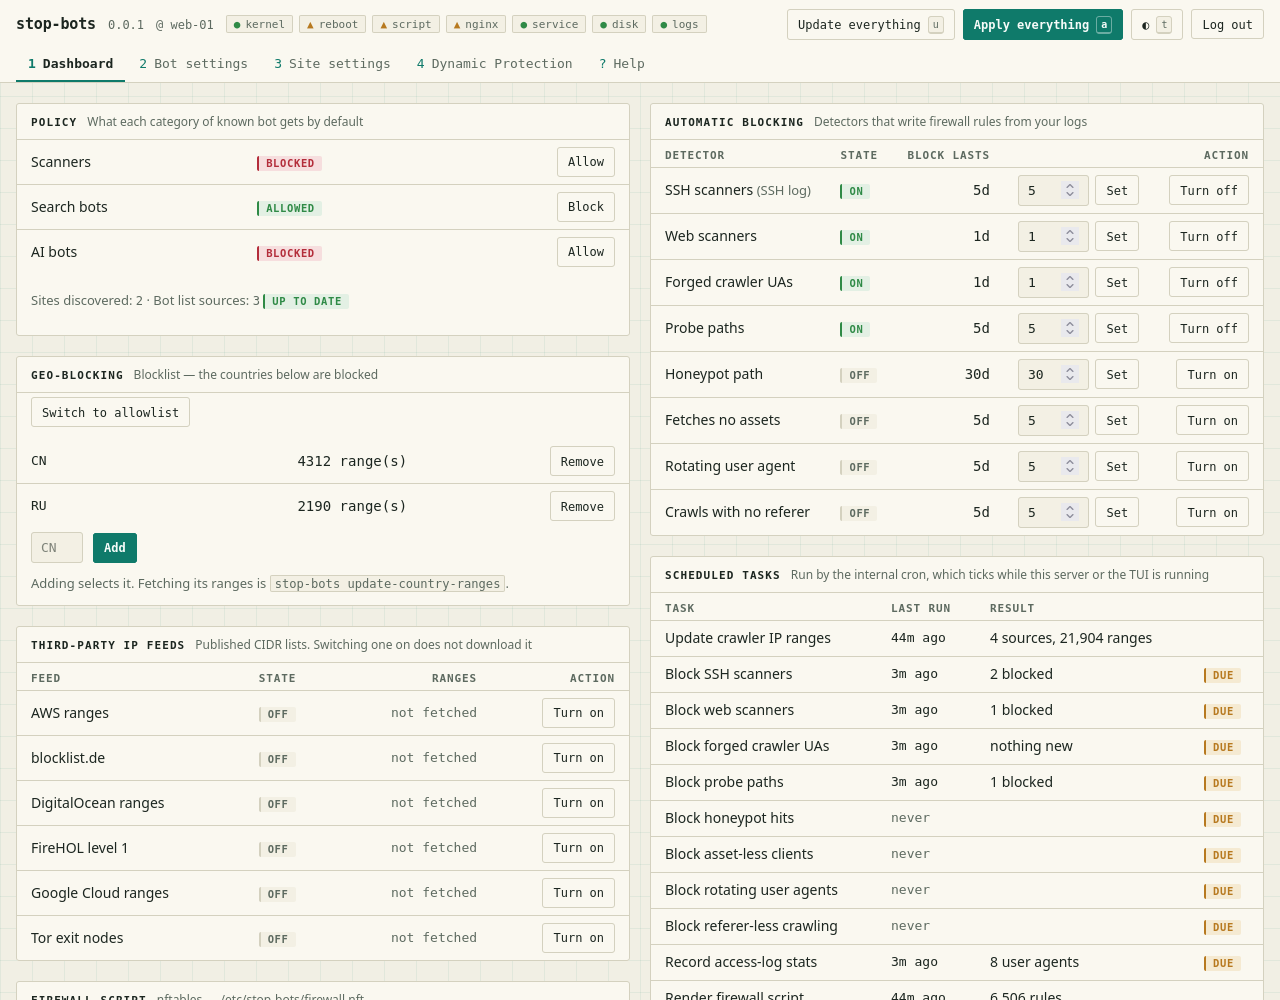
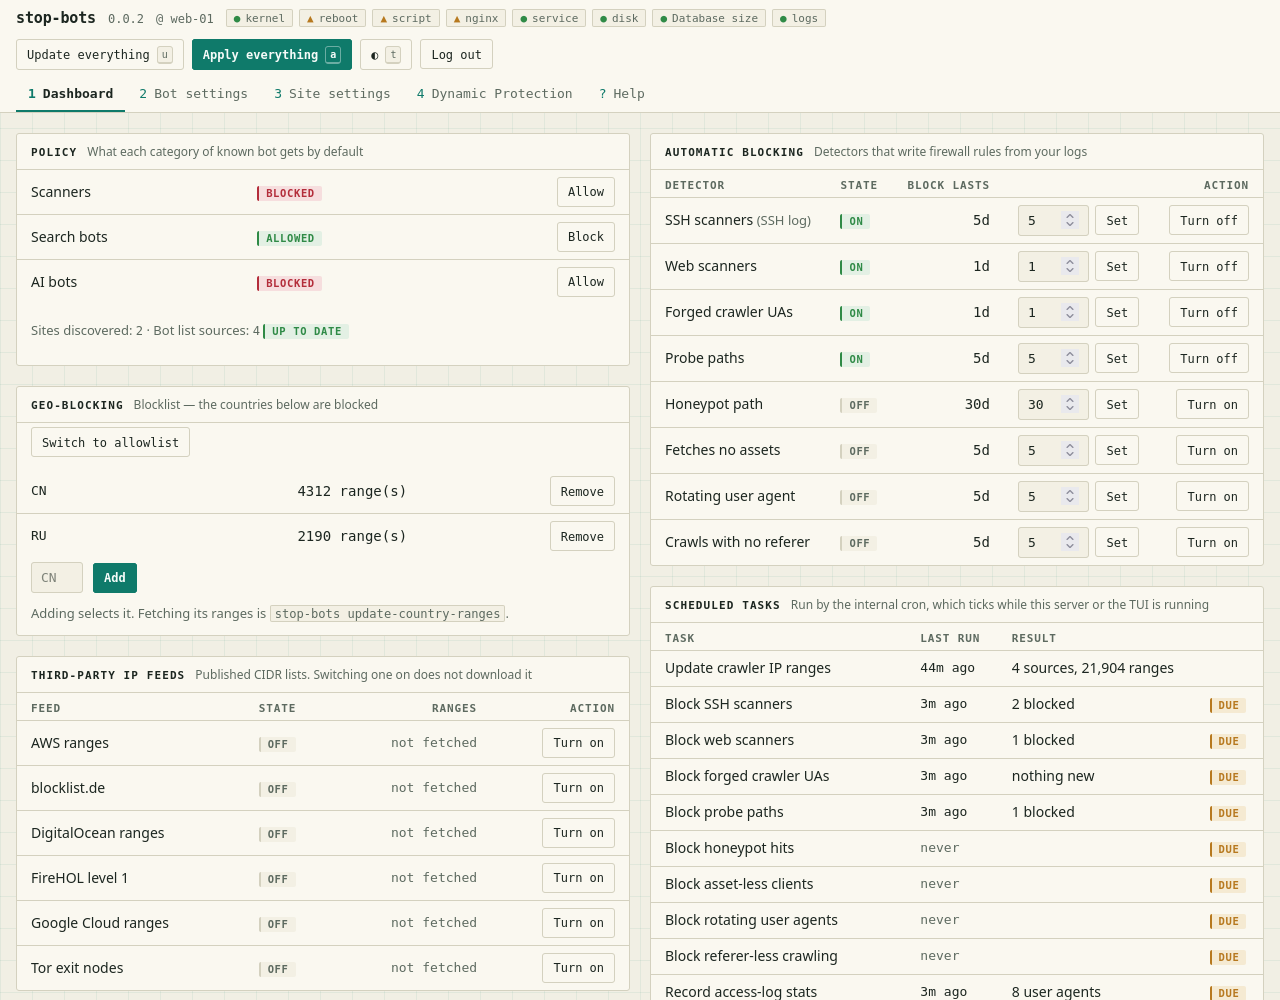
release: v0.0.2
Everything under Unreleased moves to 0.0.2, dated today, with the
compare links rolled. The version lands in Cargo.lock too, via the
`cargo check` step 1 of RELEASING.md exists for.

Screenshots regenerated, because this cycle moved every screen they
cover: Dynamic Protection gained an inspect hint on both panels and a
second detail popup, the Dashboard gained the firewall Auto-apply row,
Site settings gained its own Auto-apply, and the help screen's Dynamic
Protection lines were rewritten. All six files changed, which is the
confirmation that running `make screenshots` was not optional here — CI
does not do it.

Claude-Session: https://claude.ai/code/session_013Gs67rmuc8TRwuKSjhgyUf

diff --git a/CHANGELOG.md b/CHANGELOG.md
@@ -7,6 +7,8 @@ need.
 
 ## [Unreleased]
 
+## [0.0.2] — 2026-09-15
+
 ### Added
 
 - **Tap a user agent for a detail popup, the way an address already
@@ -823,5 +825,6 @@ installable, starting with the blocking the crate was built for.
   now one shared client (60s total, 10s connect, 5 redirects) and a 32MB cap
   enforced against both the declared length and the bytes actually arriving.
 
-[Unreleased]: https://github.com/ivankovic/stop-bots/compare/v0.0.1...HEAD
+[Unreleased]: https://github.com/ivankovic/stop-bots/compare/v0.0.2...HEAD
+[0.0.2]: https://github.com/ivankovic/stop-bots/compare/v0.0.1...v0.0.2
 [0.0.1]: https://github.com/ivankovic/stop-bots/releases/tag/v0.0.1
